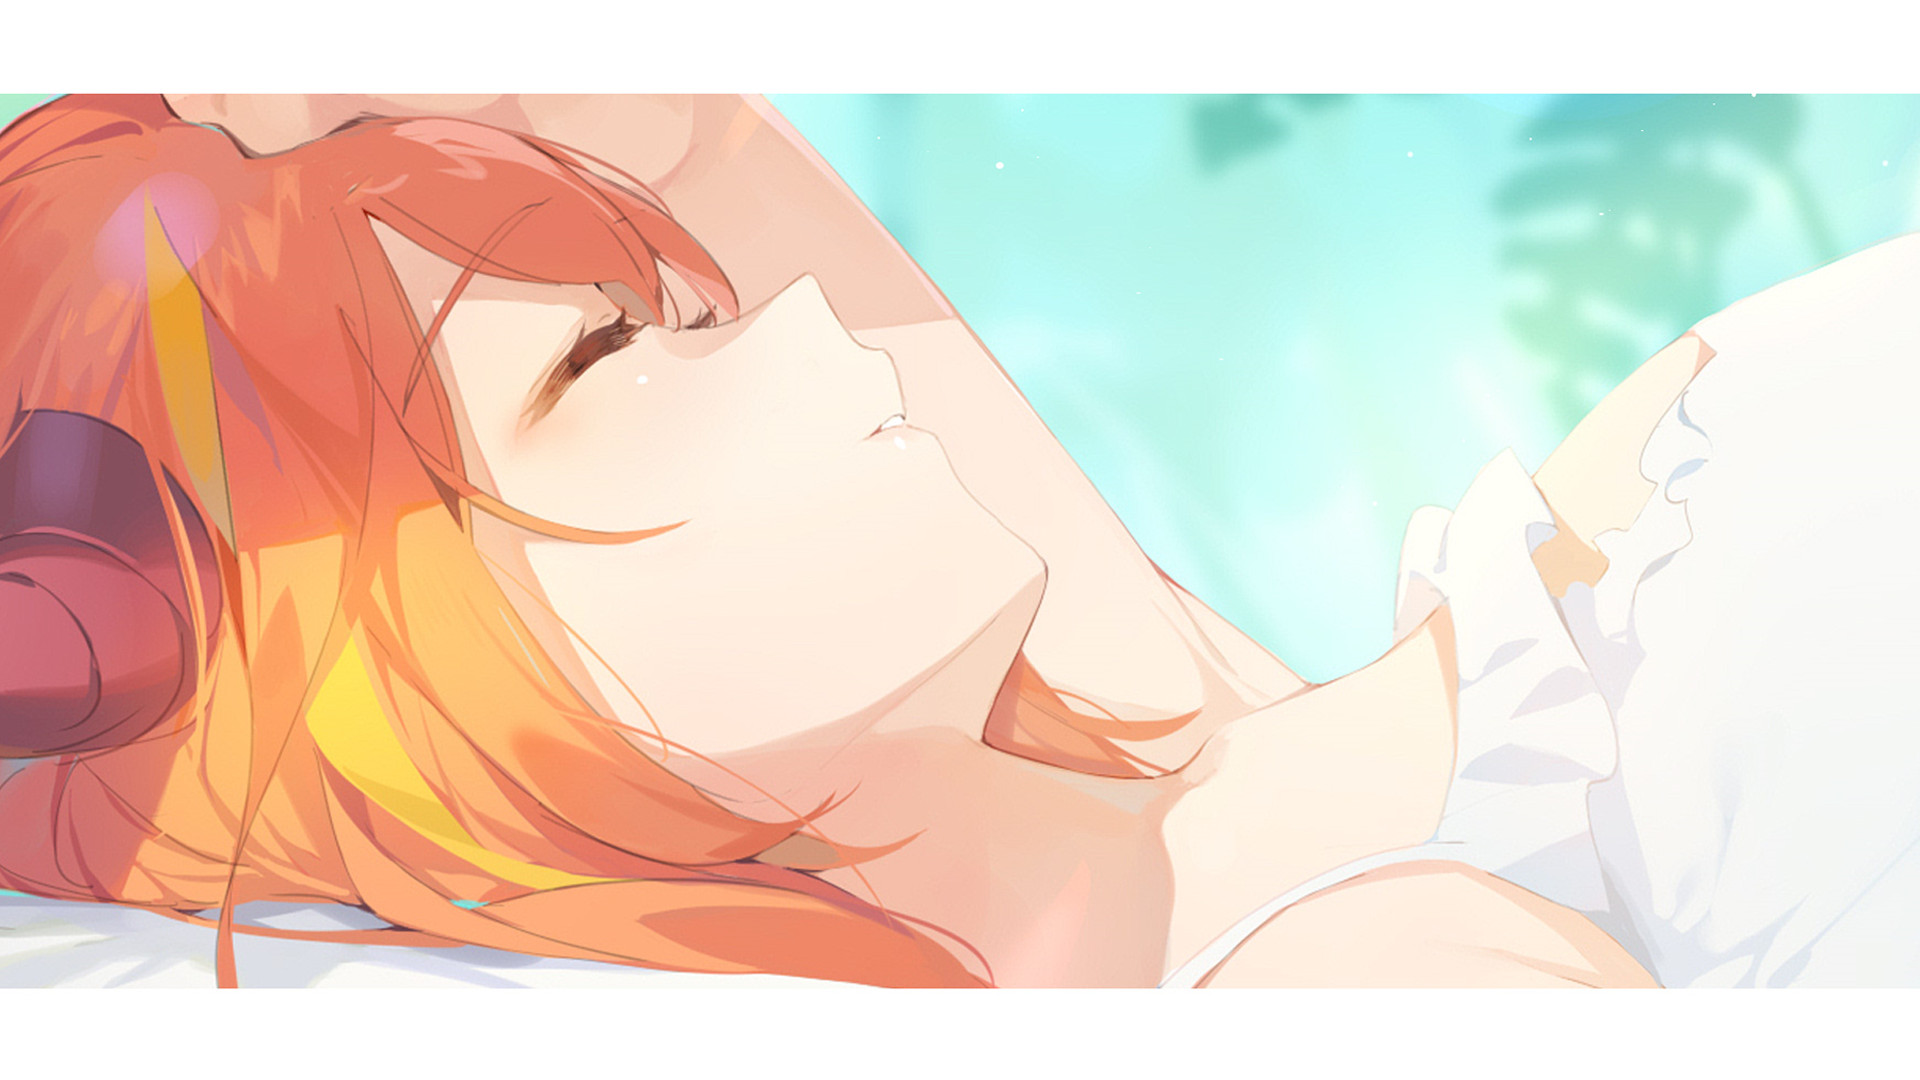
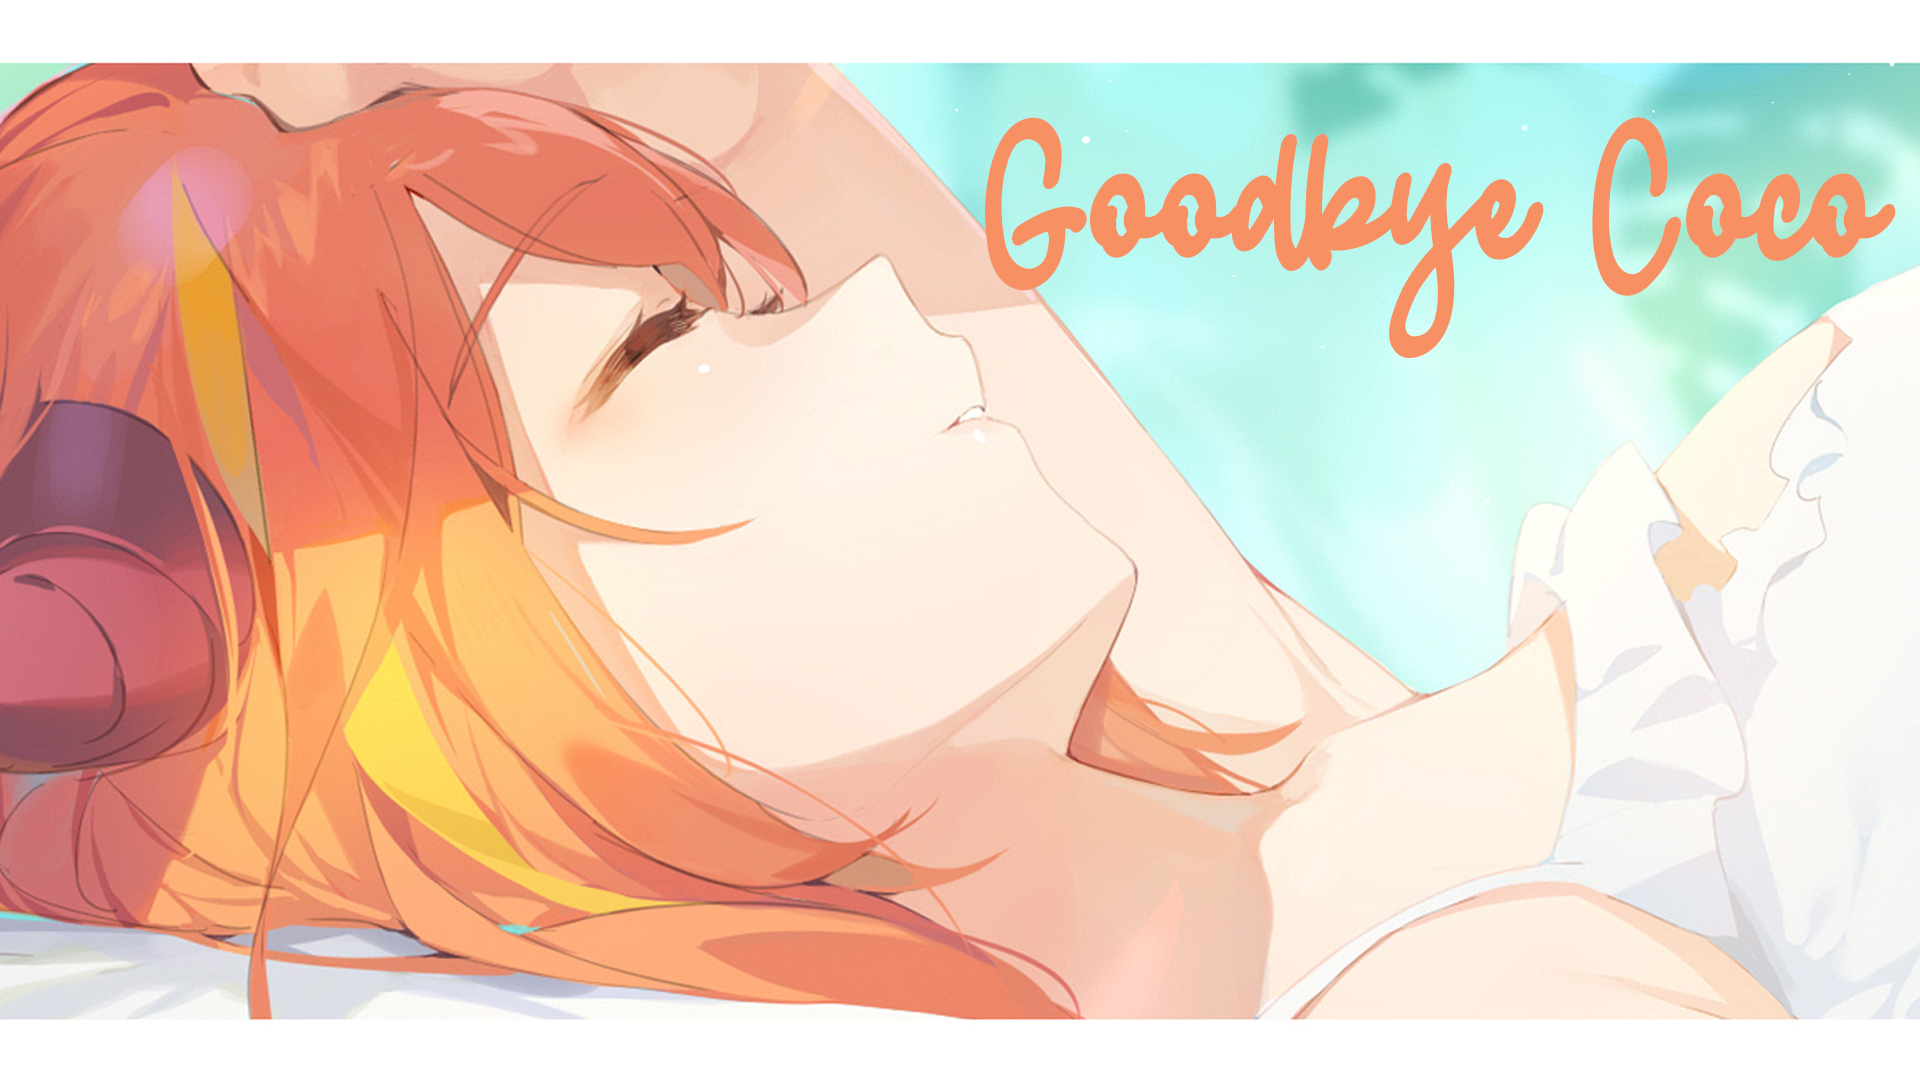
import card designs, change fade-in behavior

diff --git a/frontend/src/pages/home/home.tsx b/frontend/src/pages/home/home.tsx
@@ -293,9 +293,9 @@ export default class HomePage extends React.Component<HomePageProps, HomePageSta
                             <FadeIn className="fade-in">
                                 <ProjectCard 
                                     username="Revel"
-                                    title="Song title goes here" 
-                                    projectlink="https://duckduckgo.com"
-                                    description={"Dame da ne, dame yo, dame na no yo"} 
+                                    title="Goodbye Coco" 
+                                    projectlink="https://youtu.be/900P2WPzl-M"
+                                    description={"The time may have been short, but the memes will last a lifetime. So don't cry my friends, and let us send Coco off with laughs in the air and smiles on our faces, as we wish her a good life ahead of her. Please listen to this short song I wrote for Coco and know that this is not the end of a story, but the start of a legend that we can tell our friends without an end."} 
                                     thumbnail={Project1Thumb}/>
                             </FadeIn>
                             <div className="project-separator"/>
@@ -314,11 +314,11 @@ export default class HomePage extends React.Component<HomePageProps, HomePageSta
                                     title="Game title goes here" 
                                     projectlink="https://duckduckgo.com"
                                     description={"A seam in the sky birthed They of the dark,\n\
-    Then, with fire roared the dragon of new starts,\n\
-    Thus fled They with no bite and only bark,\n\
-    From she who saves and mends our broken hearts.\n\
-    \n\
-    Much thanks to Kaichou and this amazing community that she’s helped bring together. What a blessing this wonderful journey has been. Let’s all keep smiling and have many more together! To Kaichou, you may be out of our sights for a little bit, but you’ll never leave our hearts! KIRYU-KAI FOREVER!"} 
+  Then, with fire roared the dragon of new starts,\n\
+  Thus fled They with no bite and only bark,\n\
+  From she who saves and mends our broken hearts.\n\
+  \n\
+  Much thanks to Kaichou and this amazing community that she’s helped bring together. What a blessing this wonderful journey has been. Let’s all keep smiling and have many more together! To Kaichou, you may be out of our sights for a little bit, but you’ll never leave our hearts! KIRYU-KAI FOREVER!"} 
                                     thumbnail="https://cdn.discordapp.com/attachments/752324770196095057/857089193124429845/unknown.png"/>
                             </FadeIn>
                             <div className="project-separator"/>

diff --git a/frontend/src/shared/components/baseCard/baseCard.tsx b/frontend/src/shared/components/baseCard/baseCard.tsx
@@ -1,13 +1,17 @@
 import { Component } from "react";
 import CSS from "csstype";
 import './baseCard.css';
-import CardStyle1 from "../../../assets/cards/AKUKIN_Card_Header.png";
-import CardStyle2 from "../../../assets/cards/AKUKIN_Card_Header1.png";
+import CardStyle1 from "../../../assets/sprites/FriedPeanuts-star.png";
+import CardStyle2 from "../../../assets/sprites/nicooooooo-brooch.png";
+import CardStyle3 from "../../../assets/sprites/nicooooooo-tail.png";
 import { InView } from 'react-intersection-observer';
+
+import FadeIn from '../../../components/fadeInSection/fadeInSection';
 
 export const CardStyles = [
     [CardStyle1, "var(--main-text-wrapper-background-color)"],
     [CardStyle2, "var(--main-text-wrapper-background-color)"],
+    [CardStyle3, "var(--main-text-wrapper-background-color)"],
 ]
 
 export interface BaseCardProps<T> {
@@ -43,16 +47,18 @@ export default class BaseCard<T, P extends BaseCardProps<T>, S extends BaseCardS
             backgroundImage: `url(${CardStyles[this.cardStyleIndex][0]})`,
         };
         return (
-            <InView className={"base-card" + (loaded ? "" : " view-port-hidden")} onChange={this.toggleVisibility.bind(this)} skip={loaded} threshold={.8}>
-                <div className="card-header" />
-                <div className="card-header-decal-wrapper">
-                    <div className="card-header-decal" style={rootStyles} />
-                </div>
-                <div className="card-content">
-                    {content}
-                </div>
-                <div className="card-footer" />
-            </InView>
+            <FadeIn className="fade-in fade-in-expand">
+                <InView className={"base-card"} onChange={this.toggleVisibility.bind(this)} skip={loaded} threshold={.8}>
+                    <div className="card-header" />
+                    <div className="card-header-decal-wrapper">
+                        <div className="card-header-decal" style={rootStyles} />
+                    </div>
+                    <div className="card-content">
+                        {content}
+                    </div>
+                    <div className="card-footer" />
+                </InView>
+            </FadeIn>
         );
     }
 }

diff --git a/frontend/src/shared/components/baseCard/baseCard.css b/frontend/src/shared/components/baseCard/baseCard.css
@@ -11,6 +11,8 @@
     background-color: var(--theme-card-header-background);
     box-shadow: 0 4px 8px 0 rgba(0, 0, 0, 0.2), 0 6px 20px 0 rgba(0, 0, 0, 0.19);
     transition: all 0.5s ease;
+    font-family: var(--theme-font);
+    font-size: var(--card-font-size);
 }
 
 .view-port-hidden {
@@ -45,7 +47,8 @@
     /* overflow is required to keep cards 
      * from segmenting into different columns 
      * at certain resolutions */
-    overflow: auto;
+    overflow-x: visible;
+    overflow-y: hidden;
     height: 100%;
 }
 
@@ -85,19 +88,15 @@
     height: 80px;
     background-size: 100% 100%;
     background-position-x: center;
-    background-repeat: round;
-    background-image: url(../../../assets/cards/AKUKIN_Card_Header_Base_10.png);
 }
 
 @media (max-width: 768px) {
     .card-header {
-        background-image: url(../../../assets/cards/AKUKIN_Card_Header_Base_8.png);
     }
 }
 
 @media (max-width: 426px) {
     .card-header {
-        background-image: url(../../../assets/cards/AKUKIN_Card_Header_Base_6.png);
     }
 }
 

diff --git a/frontend/src/index.css b/frontend/src/index.css
@@ -1,5 +1,5 @@
 /* fonts */
-@import url('https://fonts.googleapis.com/css2?family=Caveat&family=Indie+Flower&display=swap');
+@import url('https://fonts.googleapis.com/css2?family=Caveat&family=Charmonman&family=Indie+Flower&display=swap');
 
 /* css */
 :root {
@@ -14,7 +14,7 @@
     --theme-card-text1: #202020;
     --theme-card-text2: #000000;
     --theme-card-background: #ffffff;
-    --theme-card-header-background: #5f5097;
+    --theme-card-header-background: #ffffff;
 
     --theme-special-text: #f0f0f0;
     --theme-special-background: #353772;
@@ -32,7 +32,9 @@
     --header-background-color: #ffffff;
     --separator-background-color: #ffffff;
 
-    --theme-font: "Caveat";
+    --card-font-size: 1.6rem;
+
+    --theme-font: "Indie Flower", "Charmonman";
 }
 
 body {

diff --git a/frontend/src/components/fadeInSection/fadeInSection.tsx b/frontend/src/components/fadeInSection/fadeInSection.tsx
@@ -1,6 +1,8 @@
 import { Component, setState } from 'react';
 import { InView } from 'react-intersection-observer';
 
+import './fadeInSection.css'
+
 interface FadeInProps {
     className: string;
 }
@@ -27,7 +29,7 @@ export default class FadeIn extends Component<FadeInProps> {
 
     render() {
         return (
-            <InView onChange={(inView, entry) => this.triggerAnimation(inView)} triggerOnce={true}>
+            <InView className="fade-in-expand" onChange={(inView, entry) => this.triggerAnimation(inView)} triggerOnce={true}>
                 <div className={this.state.animationClass}>
                     {this.props.children}
                 </div>

diff --git a/frontend/src/components/projectSection/projectCard.tsx b/frontend/src/components/projectSection/projectCard.tsx
@@ -33,7 +33,9 @@ export default class ProjectCard extends Component<ProjectCardProps>{
                         </div>
                     </div>
                     <div className="project-card-thumbnail-container left">
-                        <img src={this.props.thumbnail} className="project-card-thumbnail" />
+                        <a href={this.props.projectlink} target="_blank">
+                            <img src={this.props.thumbnail} className="project-card-thumbnail" />
+                        </a>
                     </div>
                 </div>
             </div>

diff --git a/frontend/src/shared/globalStyles/global.css b/frontend/src/shared/globalStyles/global.css
@@ -104,23 +104,3 @@
         max-width: 100vw;
     }
 }
-
-.fade-in {
-    -webkit-animation-name: fadein-up;
-    animation-name: fadein-up;
-    -webkit-animation-duration: 1.5s;
-    animation-duration: 1.5s;
-    -webkit-animation-fill-mode: both;
-    animation-fill-mode: both;
-}
-
-@keyframes fadein-up {
-    0% {
-        opacity: 0;
-        transform: translate(0px,100vh);
-    }
-    100% {
-        opacity: 1;
-        transform: translate(0px,0px);
-    }
-}

diff --git a/frontend/src/components/fadeInSection/fadeInSection.css b/frontend/src/components/fadeInSection/fadeInSection.css
@@ -1,0 +1,23 @@
+.fade-in {
+    -webkit-animation-name: fadein-up;
+    animation-name: fadein-up;
+    -webkit-animation-duration: 1.5s;
+    animation-duration: 1.5s;
+    -webkit-animation-fill-mode: both;
+    animation-fill-mode: both;
+}
+
+@keyframes fadein-up {
+    0% {
+        opacity: 0;
+        transform: translate(0px,100vh);
+    }
+    100% {
+        opacity: 1;
+        transform: translate(0px,0px);
+    }
+}
+
+.fade-in-expand {
+    width: 100%;
+}

diff --git a/frontend/src/shared/components/baseSection/baseSection.css b/frontend/src/shared/components/baseSection/baseSection.css
@@ -18,13 +18,13 @@
     }
 }
 
-@media (min-width: 1000px) {
+@media (min-width: 800px) {
     .base-section {
         column-count: 2;
     }
 }
 
-@media (min-width: 1500px) {
+@media (min-width: 1200px) {
     .base-section {
         column-count: 3;
     }

diff --git a/frontend/src/components/messageSection/messageCard/messageCard.css b/frontend/src/components/messageSection/messageCard/messageCard.css
@@ -20,7 +20,7 @@
 .message-card-text-container {
     max-width: 100%;
     margin: 0 0;
-    font-size: 24px;
+    font-size: var(--card-font-size);
     overflow-y: scroll;
     scrollbar-width: none;
     margin-right: auto;
